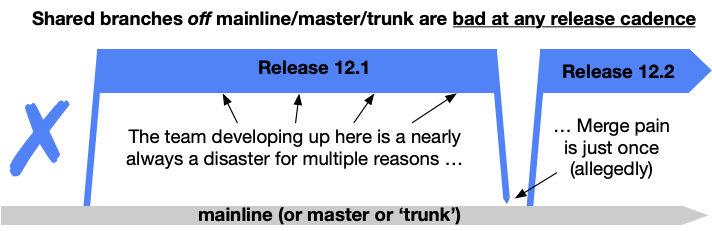
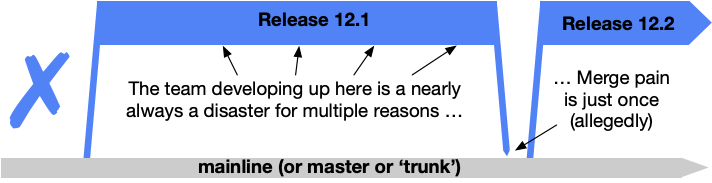
new sub headings

diff --git a/content/_index.md b/content/_index.md
@@ -16,9 +16,15 @@ therefore avoid merge hell, do not break the build, and live happily ever after.
 
  &ast; *master*, in Git nomenclature
 
+#### Shared branches off mainline/master/trunk are bad at any release cadence:
+
 ![](trunk1a.png)
 
+#### Trunk-Based Development For Smaller Teams:
+
 ![](trunk1b.png)
+
+#### Scaled Trunk-Based Development:
 
 ![](trunk1c.png)
 
